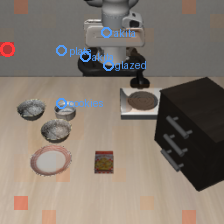
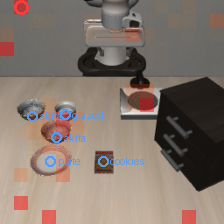
Heatmap: content-token queries + percentile-scaled display; sanity gate passes
Mean-over-all-text-tokens attention was dominated by border sinks. Pool only
from real instruction words (decoded token ids -> alphabetic filter) and
clip display normalization at p2/p98. Sanity: bowl .80 / ramekin .93 /
plate-area mass 5.1, unmentioned cookies .00.

diff --git a/policy/xray_internals.py b/policy/xray_internals.py
@@ -35,10 +35,14 @@ class Pi05InternalsCapture:
     want: subset of {"denoise", "attn_prefix"}. Unknown keys are ignored.
     """
 
-    def __init__(self, wrapper, want=("denoise", "attn_prefix")):
+    def __init__(self, wrapper, want=("denoise", "attn_prefix"),
+                 text_query_mask=None):
         self._wrapper = wrapper            # LerobotPi05Policy
         self._model = wrapper._policy.model  # PI05Pytorch
         self._want = set(want)
+        # (200,) bool: which text positions are content words (None = use
+        # every non-padding position)
+        self._text_query_mask = text_query_mask
         self.denoise_xt_norm = []          # (chunk, 7) normalized, per step
         self._prefix_heat = None           # pooled text->image, (2, 256)
         self._restore = []
@@ -127,10 +131,18 @@ class Pi05InternalsCapture:
                 valid_text = col_ok[text_lo:text_hi]
 
         acc = torch.zeros(2, N_IMG_TOKENS_PER_VIEW, dtype=torch.float32)
+        qmask = self._text_query_mask
+        if qmask is not None and valid_text is not None:
+            qmask = [q and bool(v) for q, v in zip(qmask, valid_text.tolist())]
         for attn in layers:                # (1, heads, 968, 968)
             a = attn[0].to(torch.float32)  # (heads, q, k)
             q_text = a[:, text_lo:text_hi, :]
-            if valid_text is not None:
+            if qmask is not None:
+                sel = torch.tensor(qmask, dtype=torch.bool,
+                                   device=q_text.device)
+                if sel.any():
+                    q_text = q_text[:, sel, :]
+            elif valid_text is not None:
                 q_text = q_text[:, valid_text.to(q_text.device), :]
             # mean over heads and real text queries -> (968,) key profile
             key_profile = q_text.mean(dim=(0, 1))
@@ -142,10 +154,15 @@ class Pi05InternalsCapture:
     # ------------------------------------------------------------- results
     @staticmethod
     def _normalize01(v):
-        lo, hi = float(v.min()), float(v.max())
+        """Percentile-clipped scaling: SigLIP/Gemma attention has strong
+        border-patch sinks; raw min-max lets one sink cell flatten all
+        object-level structure. Clip at p2/p98 so the map shows the
+        distribution over the scene, not the sink. Labeled as such in the UI."""
+        v = np.asarray(v, dtype=np.float32)
+        lo, hi = np.percentile(v, 2), np.percentile(v, 98)
         if hi - lo < 1e-8:
             return np.zeros_like(v, dtype=np.float32)
-        return ((v - lo) / (hi - lo)).astype(np.float32)
+        return np.clip((v - lo) / (hi - lo), 0.0, 1.0)
 
     def denoise_trajectory(self):
         """(n_steps, chunk, 7), unnormalized via the official postprocessor."""

diff --git a/policy/lerobot_pi05_policy.py b/policy/lerobot_pi05_policy.py
@@ -106,6 +106,7 @@ class LerobotPi05Policy:
         self._policy.eval()
 
         tokenizer = _load_paligemma_tokenizer(tokenizer_path)
+        self._tokenizer = tokenizer  # X-Ray: decode text-token positions
         self._preprocess, self._postprocess = make_pre_post_processors(
             cfg,
             model_id,
@@ -181,12 +182,33 @@ class LerobotPi05Policy:
           internals   dict with "denoise_xt" (n_steps, chunk_size, 7) and
                       "heatmap_agentview"/"heatmap_wrist" (256,) per `want`
         """
+        import re
+
         import torch
 
         from .xray_internals import Pi05InternalsCapture
 
         batch = self._preprocess(self._build_batch(obs))
-        with Pi05InternalsCapture(self, want) as cap:
+
+        # Content-word query mask for the attention heatmap: averaging over
+        # ALL text tokens dilutes grounding with scaffold/padding sinks, so
+        # pool attention only from real alphabetic instruction tokens.
+        # Text tokens sit at prefix positions 768+i, right-padded (XRAY_MODEL.md §2).
+        text_query_mask = None
+        tokens = batch.get("observation.language.tokens")
+        tmask = batch.get("observation.language.attention_mask")
+        if tokens is not None:
+            ids = tokens[0].tolist()
+            valid = (tmask[0].tolist() if tmask is not None
+                     else [1] * len(ids))
+            pieces = self._tokenizer.convert_ids_to_tokens(ids)
+            text_query_mask = [
+                bool(v) and bool(re.fullmatch(r"▁?[A-Za-z]{2,}", p))
+                for v, p in zip(valid, pieces)
+            ]
+
+        with Pi05InternalsCapture(self, want,
+                                  text_query_mask=text_query_mask) as cap:
             with torch.inference_mode():
                 chunk = self._policy.predict_action_chunk(batch)
         chunk = self._postprocess(chunk)

diff --git a/setup/xray_heatmap_sanity.py b/setup/xray_heatmap_sanity.py
@@ -77,9 +77,22 @@ def main():
     hot_x, hot_y = (hot_c + 0.5) * 14, (hot_r + 0.5) * 14
     print(f"hottest patch: (row {hot_r}, col {hot_c}) -> px ({hot_x:.0f},"
           f" {hot_y:.0f})")
+    print(f"overall mean activation: {heat.mean():.3f}")
+    on_object_mass = 0.0
     for name, x, y in marks:
-        d = float(np.hypot(hot_x - x, hot_y - y))
-        print(f"  distance hottest->[{name}]: {d:.0f} px ({d/14:.1f} patches)")
+        r, c = int(y // 14), int(x // 14)
+        v = float(heat[r, c])
+        # mass within a 2-patch radius of this object
+        r0, r1 = max(0, r - 2), min(16, r + 3)
+        c0, c1 = max(0, c - 2), min(16, c + 3)
+        local = float(heat[r0:r1, c0:c1].sum())
+        on_object_mass += local
+        print(f"  [{name}] patch activation {v:.3f} | "
+              f"mass in 2-patch radius {local:.3f}")
+    total = float(heat.sum())
+    print(f"object-region mass share (5 objects, +-2 patches): "
+          f"{on_object_mass / total:.2%} of total; uniform would be "
+          f"{5 * 25 / 256:.2%}")
 
     # render overlay PNG: policy-view frame + heat + markers
     from PIL import Image, ImageDraw
